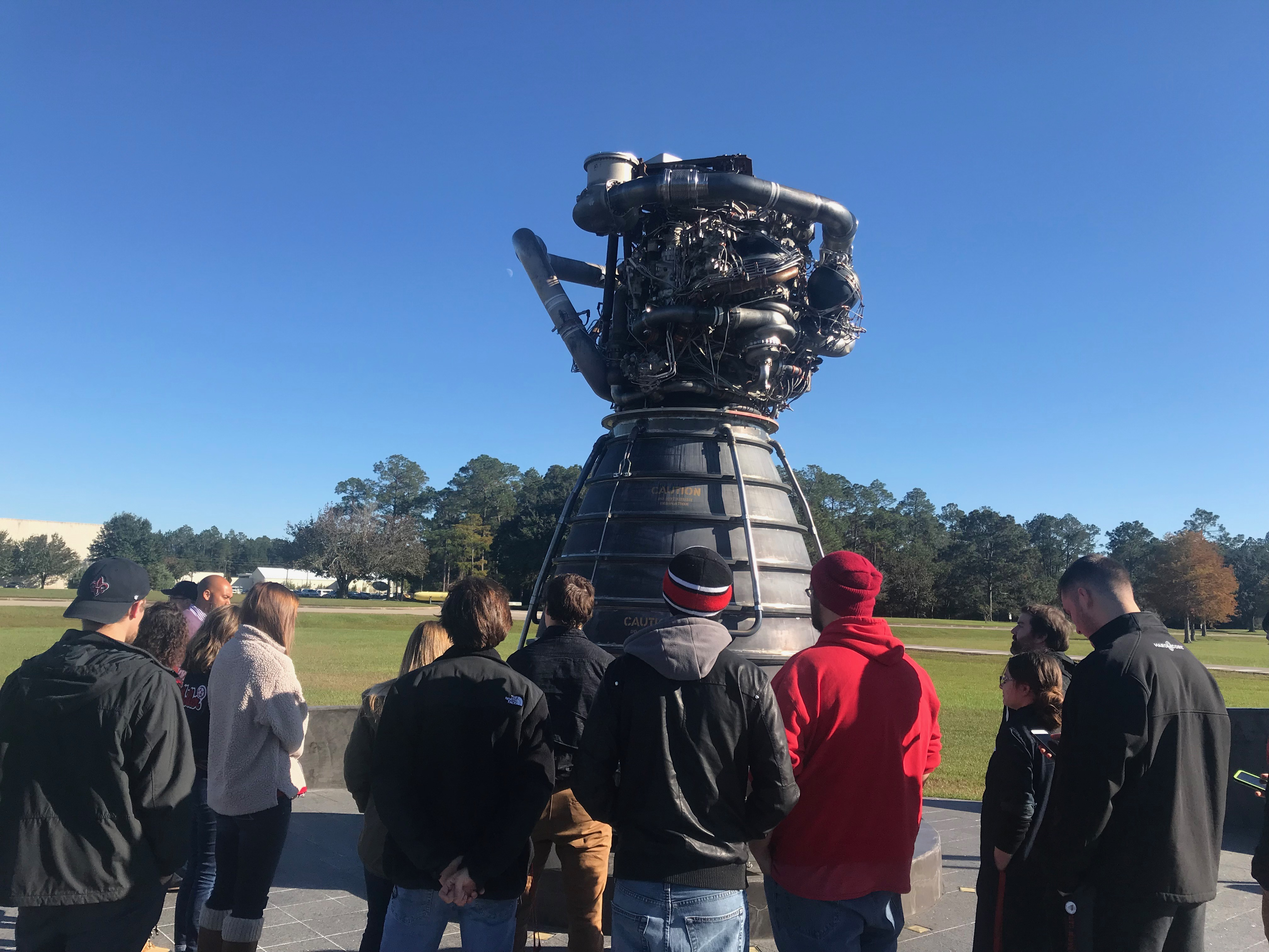
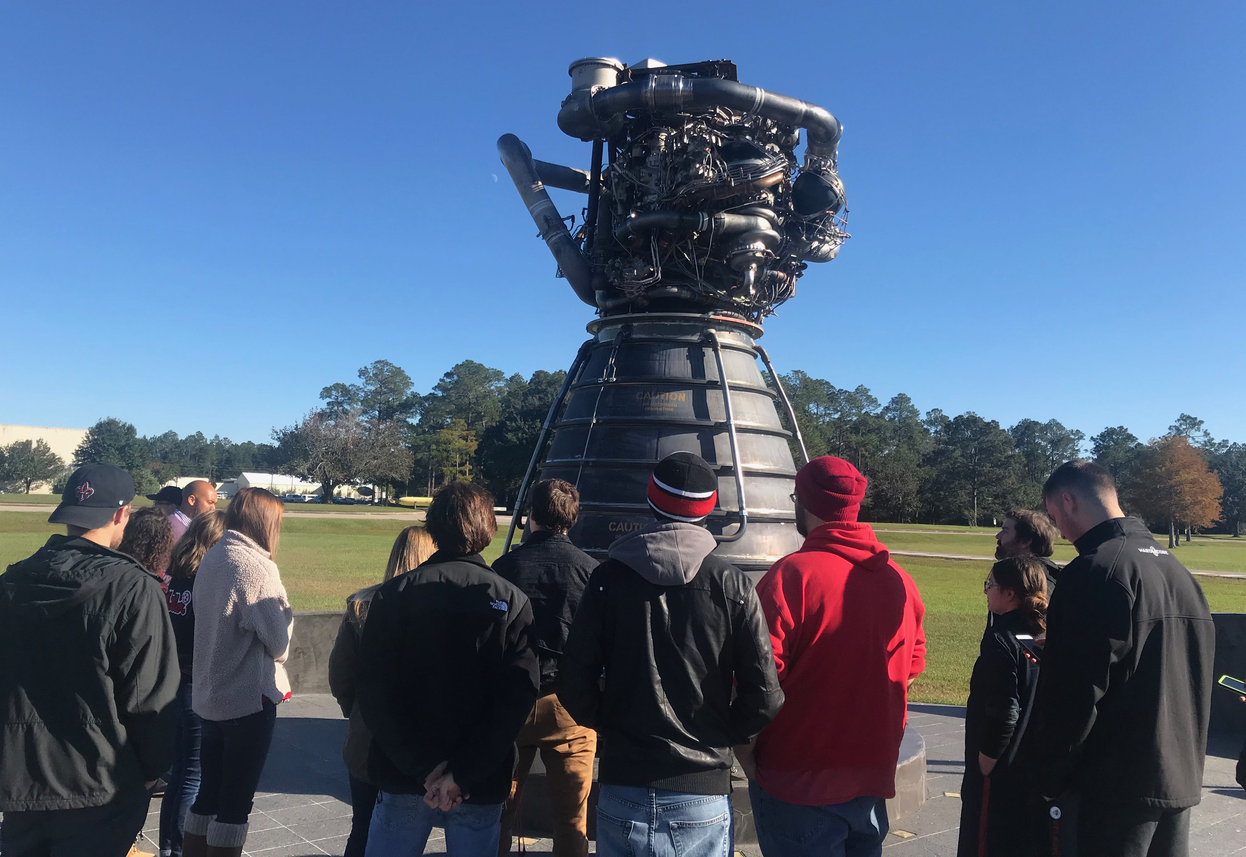
crop and reduce file size on all fall 18 gallery pictures, add header for fall 18 gallery page

diff --git a/swesite/events/templates/events/fall18gallery.html b/swesite/events/templates/events/fall18gallery.html
@@ -15,8 +15,11 @@
 
 
 {# Heading #}
-{# This page uses baseindex.html header image and gradient, so those django blocks aren't in here #}
+{% block headerBackground %}
+    url(' {% static 'events/img/carousel/fall18/fall18header.jpg' %} ')
+{% endblock %}
 
+{% block gradient %}{% endblock %}
 
 {% block headerHeading %} Fall 2018 Events Gallery {% endblock %}
 
@@ -76,8 +79,7 @@
                             <a class="lightbox"
                                href="{% static 'events/img/carousel/fall18/kona-ice/ki1.jpg' %}">
                                 <img style="object-fit: fill"
-                                     src="{% static 'events/img/carousel/fall18/kona-ice/ki1.jpg' %}"
-                                     alt="Rails">
+                                     src="{% static 'events/img/carousel/fall18/kona-ice/ki1.jpg' %}">
                             </a>
                         </div>
                         <div class="row">
@@ -90,14 +92,16 @@
                             <div class="col-sm-3 col-md-3">
                                 <a class="lightbox"
                                    href="{% static 'events/img/carousel/fall18/kona-ice/ki3.jpg' %}">
-                                    <img src="{% static 'events/img/carousel/fall18/kona-ice/ki3.jpg' %}">
+                                    <img style="object-fit: cover"
+                                         src="{% static 'events/img/carousel/fall18/kona-ice/ki3.jpg' %}">
                                 </a>
                             </div>
 
                             <div class="col-sm-3 col-md-3">
                                 <a class="lightbox"
                                    href="{% static 'events/img/carousel/fall18/kona-ice/ki4.jpg' %}">
-                                    <img src="{% static 'events/img/carousel/fall18/kona-ice/ki4.jpg' %}"
+                                    <img style="object-fit: cover"
+                                         src="{% static 'events/img/carousel/fall18/kona-ice/ki4.jpg' %}"
                                          alt="Tunnel">
                                 </a>
                             </div>
@@ -174,7 +178,8 @@
                             <div class="col-sm-6 col-md-6" style="object-fit: cover">
                                 <a class="lightbox"
                                    href="{% static 'events/img/carousel/fall18/canes/c2.jpg' %}">
-                                    <img src="{% static 'events/img/carousel/fall18/canes/c2.jpg' %}">
+                                    <img style="object-fit: cover"
+                                         src="{% static 'events/img/carousel/fall18/canes/c2.jpg' %}">
                                 </a>
                             </div>
                         </div>
@@ -221,27 +226,18 @@
                 <div class="container gallery-container" style="background-color: #F5F5F5">
                     <div class="tz-gallery">
                         <div class="row">
-                            <div class="col-sm-12 col-md-12">
+                            <div class="col-sm-6 col-md-6">
                                 <a class="lightbox"
-                                   href="{% static 'events/img/carousel/fall18/snacks-coolpops/snacks1.png' %}">
-                                    <img style="object-fit: fill"
-                                         src="{% static 'events/img/carousel/fall18/snacks-coolpops/snacks1.png' %}"
-                                         alt="Rails">
+                                   href="{% static 'events/img/carousel/fall18/snacks-coolpops/snacks1.jpg' %}">
+                                    <img style="object-fit: cover"
+                                         src="{% static 'events/img/carousel/fall18/snacks-coolpops/snacks1.jpg' %}">
                                 </a>
                             </div>
-                            <div class="row">
-                                <div class="col-sm-6 col-md-6">
-                                    <a class="lightbox"
-                                       href="{% static 'events/img/carousel/fall18/snacks-coolpops/snacks2.jpg' %}">
-                                        <img src="{% static 'events/img/carousel/fall18/snacks-coolpops/snacks2.jpg' %}">
-                                    </a>
-                                </div>
-                                <div class="col-sm-6 col-md-6">
-                                    <a class="lightbox"
-                                       href="{% static 'events/img/carousel/fall18/snacks-coolpops/snacks3.jpg' %}">
-                                        <img src="{% static 'events/img/carousel/fall18/snacks-coolpops/snacks3.jpg' %}">
-                                    </a>
-                                </div>
+                            <div class="col-sm-6 col-md-6">
+                                <a class="lightbox"
+                                   href="{% static 'events/img/carousel/fall18/snacks-coolpops/snacks2.jpg' %}">
+                                    <img src="{% static 'events/img/carousel/fall18/snacks-coolpops/snacks2.jpg' %}">
+                                </a>
                             </div>
                         </div>
                     </div>
@@ -326,39 +322,36 @@
                 Lorem ipsum dolor sit amet, consectetur adipiscing elit. Aeneanullamcorper arcu egetnisl elementum
                 vulputate.
             </h6>
+
             <div class="container gallery-container">
                 <div class="tz-gallery">
-                    <div class="container gallery-container">
-                        <div class="tz-gallery">
-                            <div class="row">
-                                <div class="col-sm-12 col-md-12">
-                                    <a class="lightbox"
-                                       href="{% static 'events/img/carousel/fall18/girard/g1.jpg' %}">
-                                        <img style="object-fit: fill"
-                                             src="{% static 'events/img/carousel/fall18/girard/g1.jpg' %}"
-                                             alt="Rails">
-                                    </a>
-                                </div>
-                                <div class="row">
-                                    <div class="col-sm-4 col-md-4">
-                                        <a class="lightbox"
-                                           href="{% static 'events/img/carousel/fall18/girard/g2.jpg' %}">
-                                            <img src="{% static 'events/img/carousel/fall18/girard/g2.jpg' %}">
-                                        </a>
-                                    </div>
-                                    <div class="col-sm-4 col-md-4">
-                                        <a class="lightbox"
-                                           href="{% static 'events/img/carousel/fall18/girard/g3.jpg' %}">
-                                            <img src="{% static 'events/img/carousel/fall18/girard/g3.jpg' %}">
-                                        </a>
-                                    </div>
-                                    <div class="col-sm-4 col-md-4">
-                                        <a class="lightbox"
-                                           href="{% static 'events/img/carousel/fall18/girard/g4.jpg' %}">
-                                            <img src="{% static 'events/img/carousel/fall18/girard/g4.jpg' %}">
-                                        </a>
-                                    </div>
-                                </div>
+                    <div class="row">
+                        <div class="col-sm-12 col-md-12">
+                            <a class="lightbox"
+                               href="{% static 'events/img/carousel/fall18/girard/g1.jpg' %}">
+                                <img style="object-fit: fill"
+                                     src="{% static 'events/img/carousel/fall18/girard/g1.jpg' %}"
+                                     alt="Rails">
+                            </a>
+                        </div>
+                        <div class="row">
+                            <div class="col-sm-4 col-md-4">
+                                <a class="lightbox"
+                                   href="{% static 'events/img/carousel/fall18/girard/g2.jpg' %}">
+                                    <img src="{% static 'events/img/carousel/fall18/girard/g2.jpg' %}">
+                                </a>
+                            </div>
+                            <div class="col-sm-4 col-md-4">
+                                <a class="lightbox"
+                                   href="{% static 'events/img/carousel/fall18/girard/g3.jpg' %}">
+                                    <img src="{% static 'events/img/carousel/fall18/girard/g3.jpg' %}">
+                                </a>
+                            </div>
+                            <div class="col-sm-4 col-md-4">
+                                <a class="lightbox"
+                                   href="{% static 'events/img/carousel/fall18/girard/g4.jpg' %}">
+                                    <img style="object-fit: cover" src="{% static 'events/img/carousel/fall18/girard/g4.jpg' %}">
+                                </a>
                             </div>
                         </div>
                     </div>
@@ -366,6 +359,7 @@
             </div>
         </div>
     </div>
+
 
     <div class="container">
         <div class="whitespace">
@@ -520,13 +514,13 @@
                             <div class="col-sm-6 col-md-6">
                                 <a class="lightbox"
                                    href="{% static 'events/img/carousel/fall18/nasa/nasa2.JPG' %}">
-                                    <img src="{% static 'events/img/carousel/fall18/nasa/nasa2.JPG' %}">
+                                    <img style="object-fit: cover" src="{% static 'events/img/carousel/fall18/nasa/nasa2.JPG' %}">
                                 </a>
                             </div>
                             <div class="col-sm-6 col-md-6">
                                 <a class="lightbox"
                                    href="{% static 'events/img/carousel/fall18/nasa/nasa3.JPG' %}">
-                                    <img src="{% static 'events/img/carousel/fall18/nasa/nasa3.JPG' %}">
+                                    <img style="object-fit: cover" src="{% static 'events/img/carousel/fall18/nasa/nasa3.JPG' %}">
                                 </a>
                             </div>
                         </div>
